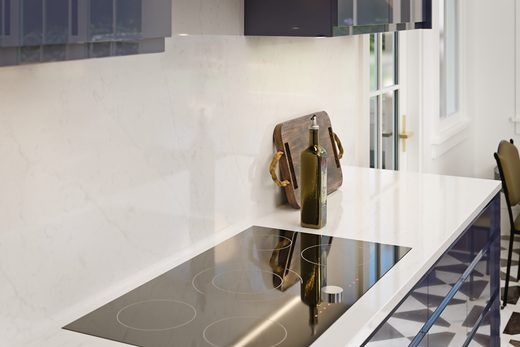
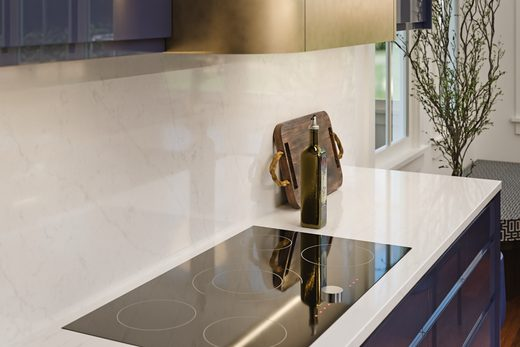
Add files via upload

diff --git a/tour.js b/tour.js
@@ -1,1 +1,1 @@
-window.TOUR = {"project": "629 Burdette St \u00b7 Kitchen", "default_node": "kitchen", "default_floor": "c_cobble", "default_doors": "closed", "floors": {"a_anabelle": "A - Anabelle St Laurent", "b_boldara": "B - Boldara Nero/Oro Checker", "c_cobble": "C - Cobble Brown"}, "doors": {"closed": "All closed", "all_open": "All appliances open"}, "client": {"name": "Maureen Stevens Design", "url": "https://www.maureenstevens.com/"}, "times": ["day", "night"], "nodes": [{"id": "kitchen", "label": "Kitchen", "view": {"yaw": 55, "pitch": -8, "hfov": 105}, "links": [{"to": "island", "label": "Island", "yaw": 179.94, "pitch": -33.99}, {"to": "breakfast", "label": "Breakfast Nook", "yaw": 84.96, "pitch": -41.27}], "appliances": [{"id": "dishwasher", "label": "Dishwasher", "action": "toggle_doors:dishwasher_open", "yaw": -57.13, "pitch": -45.95, "visible": true}, {"id": "freezer", "label": "Freezer", "action": "toggle_doors:freezer_open", "yaw": -116.23, "pitch": -5.67, "visible": true}, {"id": "fridge", "label": "Refrigerator", "action": "toggle_doors:fridge_open", "yaw": -106.64, "pitch": -6.05, "visible": true}, {"id": "wine", "label": "Wine Fridge", "action": "toggle_doors:wine_open", "yaw": 119.89, "pitch": -44.9, "visible": true}], "panos": {"floor-a_anabelle__doors-closed": {"full": "pano_kitchen_floor-a_anabelle__doors-closed.jpg", "mobile": "pano_kitchen_floor-a_anabelle__doors-closed_m.jpg", "night": {"full": "pano_kitchen_floor-a_anabelle__doors-closed_night.jpg", "mobile": "pano_kitchen_floor-a_anabelle__doors-closed_night_m.jpg"}}, "floor-a_anabelle__doors-all_open": {"full": "pano_kitchen_floor-a_anabelle__doors-all_open.jpg", "mobile": "pano_kitchen_floor-a_anabelle__doors-all_open_m.jpg", "night": {"full": "pano_kitchen_floor-a_anabelle__doors-all_open_night.jpg", "mobile": "pano_kitchen_floor-a_anabelle__doors-all_open_night_m.jpg"}}, "floor-b_boldara__doors-closed": {"full": "pano_kitchen_floor-b_boldara__doors-closed.jpg", "mobile": "pano_kitchen_floor-b_boldara__doors-closed_m.jpg", "night": {"full": "pano_kitchen_floor-b_boldara__doors-closed_night.jpg", "mobile": "pano_kitchen_floor-b_boldara__doors-closed_night_m.jpg"}}, "floor-b_boldara__doors-all_open": {"full": "pano_kitchen_floor-b_boldara__doors-all_open.jpg", "mobile": "pano_kitchen_floor-b_boldara__doors-all_open_m.jpg", "night": {"full": "pano_kitchen_floor-b_boldara__doors-all_open_night.jpg", "mobile": "pano_kitchen_floor-b_boldara__doors-all_open_night_m.jpg"}}, "floor-c_cobble__doors-closed": {"full": "pano_kitchen_floor-c_cobble__doors-closed.jpg", "mobile": "pano_kitchen_floor-c_cobble__doors-closed_m.jpg", "night": {"full": "pano_kitchen_floor-c_cobble__doors-closed_night.jpg", "mobile": "pano_kitchen_floor-c_cobble__doors-closed_night_m.jpg"}}, "floor-c_cobble__doors-all_open": {"full": "pano_kitchen_floor-c_cobble__doors-all_open.jpg", "mobile": "pano_kitchen_floor-c_cobble__doors-all_open_m.jpg", "night": {"full": "pano_kitchen_floor-c_cobble__doors-all_open_night.jpg", "mobile": "pano_kitchen_floor-c_cobble__doors-all_open_night_m.jpg"}}}, "photos": [{"still": "Still_01_Hero", "label": "Island & range - hero", "yaw": 179.86, "pitch": -30.34}, {"still": "Still_02_Range", "label": "Sink-to-range run", "yaw": 0.0, "pitch": -34.97}, {"still": "Still_03_Sink_Window", "label": "Faucet & window", "yaw": -57.64, "pitch": -11.66}, {"still": "Still_05_Hood_Detail", "label": "Brass hood & cooktop", "yaw": 0.0, "pitch": 39.81}, {"still": "Still_09_Tall_Wall", "label": "Fridge & Gaggenau oven wall", "yaw": -106.57, "pitch": -5.03}, {"still": "Still_10_Nook_to_Kitchen", "label": "From the nook - whole kitchen", "yaw": 138.64, "pitch": -23.72}, {"still": "Still_15_Wardrobe", "label": "Wardrobe - full elevation", "yaw": -165.66, "pitch": 0.0}]}, {"id": "island", "label": "Island", "view": {"yaw": 0, "pitch": -6, "hfov": 100}, "links": [{"to": "kitchen", "label": "Kitchen", "yaw": -0.06, "pitch": -33.99}, {"to": "breakfast", "label": "Breakfast Nook", "yaw": 35.59, "pitch": -27.18}], "appliances": [{"id": "freezer", "label": "Freezer", "action": "toggle_doors:freezer_open", "yaw": -71.83, "pitch": -6.0, "visible": true}, {"id": "fridge", "label": "Refrigerator", "action": "toggle_doors:fridge_open", "yaw": -62.45, "pitch": -5.6, "visible": true}], "panos": {"floor-a_anabelle__doors-closed": {"full": "pano_island_floor-a_anabelle__doors-closed.jpg", "mobile": "pano_island_floor-a_anabelle__doors-closed_m.jpg", "night": {"full": "pano_island_floor-a_anabelle__doors-closed_night.jpg", "mobile": "pano_island_floor-a_anabelle__doors-closed_night_m.jpg"}}, "floor-a_anabelle__doors-all_open": {"full": "pano_island_floor-a_anabelle__doors-all_open.jpg", "mobile": "pano_island_floor-a_anabelle__doors-all_open_m.jpg", "night": {"full": "pano_island_floor-a_anabelle__doors-all_open_night.jpg", "mobile": "pano_island_floor-a_anabelle__doors-all_open_night_m.jpg"}}, "floor-b_boldara__doors-closed": {"full": "pano_island_floor-b_boldara__doors-closed.jpg", "mobile": "pano_island_floor-b_boldara__doors-closed_m.jpg", "night": {"full": "pano_island_floor-b_boldara__doors-closed_night.jpg", "mobile": "pano_island_floor-b_boldara__doors-closed_night_m.jpg"}}, "floor-b_boldara__doors-all_open": {"full": "pano_island_floor-b_boldara__doors-all_open.jpg", "mobile": "pano_island_floor-b_boldara__doors-all_open_m.jpg", "night": {"full": "pano_island_floor-b_boldara__doors-all_open_night.jpg", "mobile": "pano_island_floor-b_boldara__doors-all_open_night_m.jpg"}}, "floor-c_cobble__doors-closed": {"full": "pano_island_floor-c_cobble__doors-closed.jpg", "mobile": "pano_island_floor-c_cobble__doors-closed_m.jpg", "night": {"full": "pano_island_floor-c_cobble__doors-closed_night.jpg", "mobile": "pano_island_floor-c_cobble__doors-closed_night_m.jpg"}}, "floor-c_cobble__doors-all_open": {"full": "pano_island_floor-c_cobble__doors-all_open.jpg", "mobile": "pano_island_floor-c_cobble__doors-all_open_m.jpg", "night": {"full": "pano_island_floor-c_cobble__doors-all_open_night.jpg", "mobile": "pano_island_floor-c_cobble__doors-all_open_night_m.jpg"}}}, "photos": [{"still": "Still_03_Sink_Window", "label": "Faucet & window", "yaw": -25.68, "pitch": -6.03}, {"still": "Still_05_Hood_Detail", "label": "Brass hood & cooktop", "yaw": -0.05, "pitch": 10.04}, {"still": "Still_09_Tall_Wall", "label": "Fridge & Gaggenau oven wall", "yaw": -62.56, "pitch": -4.65}, {"still": "Still_10_Nook_to_Kitchen", "label": "From the nook - whole kitchen", "yaw": 36.87, "pitch": -21.8}, {"still": "Still_15_Wardrobe", "label": "Wardrobe - full elevation", "yaw": -133.03, "pitch": 0.0}]}, {"id": "breakfast", "label": "Breakfast Nook", "view": {"yaw": 119, "pitch": -8, "hfov": 100}, "links": [{"to": "kitchen", "label": "Kitchen", "yaw": -95.04, "pitch": -41.27}, {"to": "island", "label": "Island", "yaw": -144.41, "pitch": -27.18}], "appliances": [{"id": "dishwasher", "label": "Dishwasher", "action": "toggle_doors:dishwasher_open", "yaw": -81.52, "pitch": -21.47, "visible": true}, {"id": "freezer", "label": "Freezer", "action": "toggle_doors:freezer_open", "yaw": -108.6, "pitch": -3.69, "visible": true}, {"id": "fridge", "label": "Refrigerator", "action": "toggle_doors:fridge_open", "yaw": -102.27, "pitch": -3.8, "visible": true}, {"id": "wine", "label": "Wine Fridge", "action": "toggle_doors:wine_open", "yaw": -127.98, "pitch": -43.43, "visible": true}], "panos": {"floor-a_anabelle__doors-closed": {"full": "pano_breakfast_floor-a_anabelle__doors-closed.jpg", "mobile": "pano_breakfast_floor-a_anabelle__doors-closed_m.jpg", "night": {"full": "pano_breakfast_floor-a_anabelle__doors-closed_night.jpg", "mobile": "pano_breakfast_floor-a_anabelle__doors-closed_night_m.jpg"}}, "floor-a_anabelle__doors-all_open": {"full": "pano_breakfast_floor-a_anabelle__doors-all_open.jpg", "mobile": "pano_breakfast_floor-a_anabelle__doors-all_open_m.jpg", "night": {"full": "pano_breakfast_floor-a_anabelle__doors-all_open_night.jpg", "mobile": "pano_breakfast_floor-a_anabelle__doors-all_open_night_m.jpg"}}, "floor-b_boldara__doors-closed": {"full": "pano_breakfast_floor-b_boldara__doors-closed.jpg", "mobile": "pano_breakfast_floor-b_boldara__doors-closed_m.jpg", "night": {"full": "pano_breakfast_floor-b_boldara__doors-closed_night.jpg", "mobile": "pano_breakfast_floor-b_boldara__doors-closed_night_m.jpg"}}, "floor-b_boldara__doors-all_open": {"full": "pano_breakfast_floor-b_boldara__doors-all_open.jpg", "mobile": "pano_breakfast_floor-b_boldara__doors-all_open_m.jpg", "night": {"full": "pano_breakfast_floor-b_boldara__doors-all_open_night.jpg", "mobile": "pano_breakfast_floor-b_boldara__doors-all_open_night_m.jpg"}}, "floor-c_cobble__doors-closed": {"full": "pano_breakfast_floor-c_cobble__doors-closed.jpg", "mobile": "pano_breakfast_floor-c_cobble__doors-closed_m.jpg", "night": {"full": "pano_breakfast_floor-c_cobble__doors-closed_night.jpg", "mobile": "pano_breakfast_floor-c_cobble__doors-closed_night_m.jpg"}}, "floor-c_cobble__doors-all_open": {"full": "pano_breakfast_floor-c_cobble__doors-all_open.jpg", "mobile": "pano_breakfast_floor-c_cobble__doors-all_open_m.jpg", "night": {"full": "pano_breakfast_floor-c_cobble__doors-all_open_night.jpg", "mobile": "pano_breakfast_floor-c_cobble__doors-all_open_night_m.jpg"}}}, "photos": [{"still": "Still_01_Hero", "label": "Island & range - hero", "yaw": -124.65, "pitch": -16.19}, {"still": "Still_02_Range", "label": "Sink-to-range run", "yaw": -67.94, "pitch": -17.73}, {"still": "Still_03_Sink_Window", "label": "Faucet & window", "yaw": -75.75, "pitch": -6.41}, {"still": "Still_04_Breakfast", "label": "Breakfast nook", "yaw": 118.61, "pitch": -25.59}, {"still": "Still_05_Hood_Detail", "label": "Brass hood & cooktop", "yaw": -75.19, "pitch": 15.85}, {"still": "Still_09_Tall_Wall", "label": "Fridge & Gaggenau oven wall", "yaw": -102.24, "pitch": -3.16}, {"still": "Still_10_Nook_to_Kitchen", "label": "From the nook - whole kitchen", "yaw": -145.75, "pitch": -22.88}, {"still": "Still_15_Wardrobe", "label": "Wardrobe - full elevation", "yaw": -141.45, "pitch": 0.0}]}], "stills": [{"id": "Still_01_Hero", "caption": "The Kitchen", "src": "still_Still_01_Hero.jpg", "thumb": "thumb_Still_01_Hero.jpg", "w": 2400, "h": 1600}, {"id": "Still_02_Range", "caption": "Sink to Range", "src": "still_Still_02_Range.jpg", "thumb": "thumb_Still_02_Range.jpg", "w": 2400, "h": 1600}, {"id": "Still_03_Sink_Window", "caption": "Workstation Sink", "src": "still_Still_03_Sink_Window.jpg", "thumb": "thumb_Still_03_Sink_Window.jpg", "w": 1920, "h": 2400}, {"id": "Still_04_Breakfast", "caption": "Breakfast Nook", "src": "still_Still_04_Breakfast.jpg", "thumb": "thumb_Still_04_Breakfast.jpg", "w": 1600, "h": 2400}, {"id": "Still_05_Hood_Detail", "caption": "Brass Hood", "src": "still_Still_05_Hood_Detail.jpg", "thumb": "thumb_Still_05_Hood_Detail.jpg", "w": 1920, "h": 2400}, {"id": "Still_06_Stools_Detail", "caption": "Bar Stools", "src": "still_Still_06_Stools_Detail.jpg", "thumb": "thumb_Still_06_Stools_Detail.jpg", "w": 1600, "h": 2400}, {"id": "Still_07_Aerial", "caption": "Overview", "src": "still_Still_07_Aerial.jpg", "thumb": "thumb_Still_07_Aerial.jpg", "w": 2400, "h": 1600}, {"id": "Still_08_Plan", "caption": "Plan View", "src": "still_Still_08_Plan.jpg", "thumb": "thumb_Still_08_Plan.jpg", "w": 2400, "h": 1600}, {"id": "Still_09_Tall_Wall", "caption": "Refrigerator & Ovens", "src": "still_Still_09_Tall_Wall.jpg", "thumb": "thumb_Still_09_Tall_Wall.jpg", "w": 1600, "h": 2400}, {"id": "Still_10_Nook_to_Kitchen", "caption": "From the Nook", "src": "still_Still_10_Nook_to_Kitchen.jpg", "thumb": "thumb_Still_10_Nook_to_Kitchen.jpg", "w": 2400, "h": 1600}, {"id": "Still_11_Fridge_Freezer_Open", "caption": "Refrigerator & Freezer", "src": "still_Still_11_Fridge_Freezer_Open.jpg", "thumb": "thumb_Still_11_Fridge_Freezer_Open.jpg", "w": 2400, "h": 1600}, {"id": "Still_12_Wine_Open", "caption": "Wine Fridge", "src": "still_Still_12_Wine_Open.jpg", "thumb": "thumb_Still_12_Wine_Open.jpg", "w": 1600, "h": 2400}, {"id": "Still_13_Dishwasher_Open", "caption": "Dishwasher", "src": "still_Still_13_Dishwasher_Open.jpg", "thumb": "thumb_Still_13_Dishwasher_Open.jpg", "w": 1600, "h": 2400}, {"id": "Still_14_Aerial_All_Open", "caption": "Overview - Appliances Open", "src": "still_Still_14_Aerial_All_Open.jpg", "thumb": "thumb_Still_14_Aerial_All_Open.jpg", "w": 2400, "h": 1600}, {"id": "Still_15_Wardrobe", "caption": "Wardrobe", "src": "still_Still_15_Wardrobe.jpg", "thumb": "thumb_Still_15_Wardrobe.jpg", "w": 1920, "h": 2400}]};
+window.TOUR = {"project": "629 Burdette St \u00b7 Kitchen", "default_node": "kitchen", "default_floor": "opt1", "default_doors": "closed", "floors": {"opt1": "Nook Option 1", "opt2": "Nook Option 2"}, "doors": {"closed": "All closed", "all_open": "All appliances open"}, "client": {"name": "Maureen Stevens Design", "url": "https://www.maureenstevens.com/"}, "times": ["day", "night"], "nodes": [{"id": "kitchen", "label": "Kitchen", "view": {"yaw": 55, "pitch": -8, "hfov": 105}, "links": [{"to": "island", "label": "Island", "yaw": 179.94, "pitch": -33.99}, {"to": "breakfast", "label": "Breakfast Nook", "yaw": 84.96, "pitch": -22.5}], "appliances": [{"id": "dishwasher", "label": "Dishwasher", "action": "toggle_doors:dishwasher_open", "yaw": -57.13, "pitch": -45.95, "visible": true}, {"id": "freezer", "label": "Freezer", "action": "toggle_doors:freezer_open", "yaw": -116.23, "pitch": -5.67, "visible": true}, {"id": "fridge", "label": "Refrigerator", "action": "toggle_doors:fridge_open", "yaw": -106.64, "pitch": -6.05, "visible": true}, {"id": "wine", "label": "Wine Fridge", "action": "toggle_doors:wine_open", "yaw": 114.53, "pitch": -39.71, "visible": true}], "panos": {"floor-opt1__doors-closed": {"full": "pano_kitchen_floor-walnut__doors-closed.jpg", "mobile": "pano_kitchen_floor-walnut__doors-closed_m.jpg", "night": {"full": "pano_kitchen_floor-walnut__doors-closed_night.jpg", "mobile": "pano_kitchen_floor-walnut__doors-closed_night_m.jpg"}}, "floor-opt2__doors-closed": {"full": "pano_kitchen_floor-walnut__doors-closed_opt2.jpg", "mobile": "pano_kitchen_floor-walnut__doors-closed_opt2_m.jpg", "night": {"full": "pano_kitchen_floor-walnut__doors-closed_opt2_night.jpg", "mobile": "pano_kitchen_floor-walnut__doors-closed_opt2_night_m.jpg"}}, "floor-opt1__doors-all_open": {"full": "pano_kitchen_floor-walnut__doors-all_open.jpg", "mobile": "pano_kitchen_floor-walnut__doors-all_open_m.jpg", "night": {"full": "pano_kitchen_floor-walnut__doors-all_open_night.jpg", "mobile": "pano_kitchen_floor-walnut__doors-all_open_night_m.jpg"}}, "floor-opt2__doors-all_open": {"full": "pano_kitchen_floor-walnut__doors-all_open_opt2.jpg", "mobile": "pano_kitchen_floor-walnut__doors-all_open_opt2_m.jpg", "night": {"full": "pano_kitchen_floor-walnut__doors-all_open_opt2_night.jpg", "mobile": "pano_kitchen_floor-walnut__doors-all_open_opt2_night_m.jpg"}}}, "photos": [{"still": "Still_01_Hero", "label": "Island & range - hero", "yaw": 179.86, "pitch": -30.34}, {"still": "Still_02_Range", "label": "Sink-to-range run", "yaw": 0.0, "pitch": -34.97}, {"still": "Still_03_Sink_Window", "label": "Faucet & window", "yaw": -57.64, "pitch": -11.66}, {"still": "Still_05_Hood_Detail", "label": "Brass hood & cooktop", "yaw": 0.0, "pitch": 39.81}, {"still": "Still_09_Tall_Wall", "label": "Fridge & Gaggenau oven wall", "yaw": -106.57, "pitch": -5.03}, {"still": "Still_10_Nook_to_Kitchen", "label": "From the nook - whole kitchen", "yaw": 138.64, "pitch": -23.72}, {"still": "Still_15_Wardrobe", "label": "Wardrobe - full elevation", "yaw": -165.66, "pitch": 0.0}]}, {"id": "island", "label": "Island", "view": {"yaw": 0, "pitch": -6, "hfov": 100}, "links": [{"to": "kitchen", "label": "Kitchen", "yaw": -0.06, "pitch": -33.99}, {"to": "breakfast", "label": "Breakfast Nook", "yaw": 35.59, "pitch": -13.62}], "appliances": [{"id": "freezer", "label": "Freezer", "action": "toggle_doors:freezer_open", "yaw": -71.83, "pitch": -6.0, "visible": true}, {"id": "fridge", "label": "Refrigerator", "action": "toggle_doors:fridge_open", "yaw": -62.45, "pitch": -5.6, "visible": true}], "panos": {"floor-opt1__doors-closed": {"full": "pano_island_floor-walnut__doors-closed.jpg", "mobile": "pano_island_floor-walnut__doors-closed_m.jpg", "night": {"full": "pano_island_floor-walnut__doors-closed_night.jpg", "mobile": "pano_island_floor-walnut__doors-closed_night_m.jpg"}}, "floor-opt2__doors-closed": {"full": "pano_island_floor-walnut__doors-closed_opt2.jpg", "mobile": "pano_island_floor-walnut__doors-closed_opt2_m.jpg", "night": {"full": "pano_island_floor-walnut__doors-closed_opt2_night.jpg", "mobile": "pano_island_floor-walnut__doors-closed_opt2_night_m.jpg"}}, "floor-opt1__doors-all_open": {"full": "pano_island_floor-walnut__doors-all_open.jpg", "mobile": "pano_island_floor-walnut__doors-all_open_m.jpg", "night": {"full": "pano_island_floor-walnut__doors-all_open_night.jpg", "mobile": "pano_island_floor-walnut__doors-all_open_night_m.jpg"}}, "floor-opt2__doors-all_open": {"full": "pano_island_floor-walnut__doors-all_open_opt2.jpg", "mobile": "pano_island_floor-walnut__doors-all_open_opt2_m.jpg", "night": {"full": "pano_island_floor-walnut__doors-all_open_opt2_night.jpg", "mobile": "pano_island_floor-walnut__doors-all_open_opt2_night_m.jpg"}}}, "photos": [{"still": "Still_03_Sink_Window", "label": "Faucet & window", "yaw": -25.68, "pitch": -6.03}, {"still": "Still_05_Hood_Detail", "label": "Brass hood & cooktop", "yaw": -0.05, "pitch": 10.04}, {"still": "Still_09_Tall_Wall", "label": "Fridge & Gaggenau oven wall", "yaw": -62.56, "pitch": -4.65}, {"still": "Still_10_Nook_to_Kitchen", "label": "From the nook - whole kitchen", "yaw": 36.87, "pitch": -21.8}, {"still": "Still_15_Wardrobe", "label": "Wardrobe - full elevation", "yaw": -133.03, "pitch": 0.0}]}, {"id": "breakfast", "label": "Breakfast Nook", "view": {"yaw": 119, "pitch": -8, "hfov": 100}, "links": [{"to": "kitchen", "label": "Kitchen", "yaw": -95.04, "pitch": -41.27}, {"to": "island", "label": "Island", "yaw": -144.41, "pitch": -27.18}], "appliances": [{"id": "dishwasher", "label": "Dishwasher", "action": "toggle_doors:dishwasher_open", "yaw": -81.52, "pitch": -21.47, "visible": true}, {"id": "freezer", "label": "Freezer", "action": "toggle_doors:freezer_open", "yaw": -108.6, "pitch": -3.69, "visible": true}, {"id": "fridge", "label": "Refrigerator", "action": "toggle_doors:fridge_open", "yaw": -102.27, "pitch": -3.8, "visible": true}, {"id": "wine", "label": "Wine Fridge", "action": "toggle_doors:wine_open", "yaw": -136.96, "pitch": -48.35, "visible": true}], "panos": {"floor-opt1__doors-closed": {"full": "pano_breakfast_floor-walnut__doors-closed.jpg", "mobile": "pano_breakfast_floor-walnut__doors-closed_m.jpg", "night": {"full": "pano_breakfast_floor-walnut__doors-closed_night.jpg", "mobile": "pano_breakfast_floor-walnut__doors-closed_night_m.jpg"}}, "floor-opt2__doors-closed": {"full": "pano_breakfast_floor-walnut__doors-closed_opt2.jpg", "mobile": "pano_breakfast_floor-walnut__doors-closed_opt2_m.jpg", "night": {"full": "pano_breakfast_floor-walnut__doors-closed_opt2_night.jpg", "mobile": "pano_breakfast_floor-walnut__doors-closed_opt2_night_m.jpg"}}, "floor-opt1__doors-all_open": {"full": "pano_breakfast_floor-walnut__doors-all_open.jpg", "mobile": "pano_breakfast_floor-walnut__doors-all_open_m.jpg", "night": {"full": "pano_breakfast_floor-walnut__doors-all_open_night.jpg", "mobile": "pano_breakfast_floor-walnut__doors-all_open_night_m.jpg"}}, "floor-opt2__doors-all_open": {"full": "pano_breakfast_floor-walnut__doors-all_open_opt2.jpg", "mobile": "pano_breakfast_floor-walnut__doors-all_open_opt2_m.jpg", "night": {"full": "pano_breakfast_floor-walnut__doors-all_open_opt2_night.jpg", "mobile": "pano_breakfast_floor-walnut__doors-all_open_opt2_night_m.jpg"}}}, "photos": [{"still": "Still_01_Hero", "label": "Island & range - hero", "yaw": -124.65, "pitch": -16.19}, {"still": "Still_02_Range", "label": "Sink-to-range run", "yaw": -67.94, "pitch": -17.73}, {"still": "Still_03_Sink_Window", "label": "Faucet & window", "yaw": -75.75, "pitch": -6.41}, {"still": "Still_05_Hood_Detail", "label": "Brass hood & cooktop", "yaw": -75.19, "pitch": 15.85}, {"still": "Still_09_Tall_Wall", "label": "Fridge & Gaggenau oven wall", "yaw": -102.24, "pitch": -3.16}, {"still": "Still_10_Nook_to_Kitchen", "label": "From the nook - whole kitchen", "yaw": -145.75, "pitch": -22.88}, {"still": "Still_15_Wardrobe", "label": "Wardrobe - full elevation", "yaw": -141.45, "pitch": 0.0}]}], "stills": [{"id": "Still_01_Hero", "caption": "The Kitchen", "src": "still_Still_01_Hero.jpg", "thumb": "thumb_Still_01_Hero.jpg", "w": 2400, "h": 1600, "opt2": {"src": "still_Still_01_Hero_opt2.jpg", "thumb": "thumb_Still_01_Hero_opt2.jpg", "w": 2400, "h": 1600}}, {"id": "Still_02_Range", "caption": "Sink to Range", "src": "still_Still_02_Range.jpg", "thumb": "thumb_Still_02_Range.jpg", "w": 2400, "h": 1600}, {"id": "Still_03_Sink_Window", "caption": "Workstation Sink", "src": "still_Still_03_Sink_Window.jpg", "thumb": "thumb_Still_03_Sink_Window.jpg", "w": 1920, "h": 2400}, {"id": "Still_04_Breakfast", "caption": "Breakfast Nook", "src": "still_Still_04_Breakfast.jpg", "thumb": "thumb_Still_04_Breakfast.jpg", "w": 1600, "h": 2400, "opt2": {"src": "still_Still_04_Breakfast_opt2.jpg", "thumb": "thumb_Still_04_Breakfast_opt2.jpg", "w": 1600, "h": 2400}}, {"id": "Still_05_Hood_Detail", "caption": "Brass Hood", "src": "still_Still_05_Hood_Detail.jpg", "thumb": "thumb_Still_05_Hood_Detail.jpg", "w": 1920, "h": 2400}, {"id": "Still_06_Stools_Detail", "caption": "Bar Stools", "src": "still_Still_06_Stools_Detail.jpg", "thumb": "thumb_Still_06_Stools_Detail.jpg", "w": 1600, "h": 2400}, {"id": "Still_07_Aerial", "caption": "Overview", "src": "still_Still_07_Aerial.jpg", "thumb": "thumb_Still_07_Aerial.jpg", "w": 2400, "h": 1600, "opt2": {"src": "still_Still_07_Aerial_opt2.jpg", "thumb": "thumb_Still_07_Aerial_opt2.jpg", "w": 2400, "h": 1600}}, {"id": "Still_08_Plan", "caption": "Plan View", "src": "still_Still_08_Plan.jpg", "thumb": "thumb_Still_08_Plan.jpg", "w": 2400, "h": 1600, "opt2": {"src": "still_Still_08_Plan_opt2.jpg", "thumb": "thumb_Still_08_Plan_opt2.jpg", "w": 2400, "h": 1600}}, {"id": "Still_09_Tall_Wall", "caption": "Refrigerator & Ovens", "src": "still_Still_09_Tall_Wall.jpg", "thumb": "thumb_Still_09_Tall_Wall.jpg", "w": 1600, "h": 2400}, {"id": "Still_10_Nook_to_Kitchen", "caption": "From the Nook", "src": "still_Still_10_Nook_to_Kitchen.jpg", "thumb": "thumb_Still_10_Nook_to_Kitchen.jpg", "w": 2400, "h": 1600, "opt2": {"src": "still_Still_10_Nook_to_Kitchen_opt2.jpg", "thumb": "thumb_Still_10_Nook_to_Kitchen_opt2.jpg", "w": 2400, "h": 1600}}, {"id": "Still_11_Fridge_Freezer_Open", "caption": "Refrigerator & Freezer", "src": "still_Still_11_Fridge_Freezer_Open.jpg", "thumb": "thumb_Still_11_Fridge_Freezer_Open.jpg", "w": 2400, "h": 1600}, {"id": "Still_12_Wine_Open", "caption": "Wine Fridge", "src": "still_Still_12_Wine_Open.jpg", "thumb": "thumb_Still_12_Wine_Open.jpg", "w": 1600, "h": 2400}, {"id": "Still_13_Dishwasher_Open", "caption": "Dishwasher", "src": "still_Still_13_Dishwasher_Open.jpg", "thumb": "thumb_Still_13_Dishwasher_Open.jpg", "w": 1600, "h": 2400}, {"id": "Still_14_Aerial_All_Open", "caption": "Overview - Appliances Open", "src": "still_Still_14_Aerial_All_Open.jpg", "thumb": "thumb_Still_14_Aerial_All_Open.jpg", "w": 2400, "h": 1600, "opt2": {"src": "still_Still_14_Aerial_All_Open_opt2.jpg", "thumb": "thumb_Still_14_Aerial_All_Open_opt2.jpg", "w": 2400, "h": 1600}}, {"id": "Still_15_Wardrobe", "caption": "Wardrobe", "src": "still_Still_15_Wardrobe.jpg", "thumb": "thumb_Still_15_Wardrobe.jpg", "w": 1920, "h": 2400}], "floor_label": "Nook"};

diff --git a/index.html b/index.html
@@ -6,7 +6,7 @@
 <title>629 Burdette St · Kitchen 360°</title>
 <meta name="description" content="Interactive 360° kitchen presentation - 629 Burdette St · Maureen Stevens Design">
 <meta property="og:title" content="629 Burdette St · Kitchen 360°">
-<meta property="og:description" content="Walk through the kitchen in 360°, switch floors and open the appliances.">
+<meta property="og:description" content="Walk through the kitchen in 360°, open the appliances and switch day / night.">
 <link rel="icon" href="logo.webp">
 <link rel="preconnect" href="https://fonts.googleapis.com">
 <link rel="preconnect" href="https://fonts.gstatic.com" crossorigin>
@@ -165,7 +165,7 @@
   </div>
 </section>
 
-<div class="title ui"><h2>629 Burdette St</h2><p>Kitchen · 360° tour</p></div>
+<div class="title ui"><h2>629 Burdette St</h2><p>Kitchen · 360° tour · <a href="v1.html" style="color:inherit;text-decoration:underline;pointer-events:auto">Previous design</a></p></div>
 <div class="hint ui" id="hint">Drag to look around · circles move you · gold dots open the appliances · camera icons show photos · switch Day / Night below</div>
 <div class="loc-name" id="locname"></div>
 
@@ -178,7 +178,7 @@
 
 <nav class="panel ui" aria-label="Tour controls">
   <div class="row"><span class="lbl">Location</span><div class="seg" id="segNode"></div></div>
-  <div class="row"><span class="lbl">Floor</span><div class="seg" id="segFloor"></div></div>
+  <div class="row" id="rowFloor"><span class="lbl" id="lblFloor">Floor</span><div class="seg" id="segFloor"></div></div>
   <div class="row"><span class="lbl">Appliances</span><div class="seg" id="segDoors"></div></div>
   <div class="row" id="rowTime"><span class="lbl">Lighting</span><div class="seg" id="segTime"></div></div>
 </nav>
@@ -217,6 +217,7 @@
   const reduce = matchMedia('(prefers-reduced-motion: reduce)').matches;
 
   if (T.client && T.client.url) $('logo').href = T.client.url;
+  if (T.floor_label) $('lblFloor').textContent = T.floor_label;
 
   const S = {node:T.default_node, floor:T.default_floor, doors:T.default_doors, time:'day'};
   const TIMES = T.times || ['day'];
@@ -291,7 +292,7 @@
     const narrow = innerWidth < 700;
     const fl = Object.entries(T.floors).map(([k,l])=>[k, narrow ? l.replace(/^(\w)\s*-\s*(\w+).*/, '$1 · $2') : l]);
     seg($('segNode'), T.nodes.map(n=>[n.id,n.label]), S.node, goNode);
-    seg($('segFloor'), fl, S.floor, setFloor);
+    if (fl.length>1) seg($('segFloor'), fl, S.floor, setFloor); else $('rowFloor').style.display='none';
     seg($('segDoors'), [['closed','Closed'],['all_open','Open']], S.doors, setDoors);
     if (TIMES.length>1) seg($('segTime'), [['day','Day'],['night','Night']], S.time, setTime); else $('rowTime').style.display='none';
   }
@@ -308,21 +309,23 @@
   // ---------- gallery ----------
   let gi=0;
   const gal=$('gal'), img=$('galImg'), thumbs=$('galThumbs');
+  const cur=s=>(S.floor==='opt2' && s.opt2) ? s.opt2 : s;
   stills.forEach((s,i)=>{ const b=document.createElement('button'); b.type='button'; b.setAttribute('aria-label',s.caption);
-    b.innerHTML=`<img src="${s.thumb}" alt="" loading="lazy">`; b.onclick=()=>show(i); thumbs.appendChild(b); });
+    b.innerHTML=`<img src="${s.thumb}" alt="" loading="lazy">`; b.dataset.k=i; b.onclick=()=>show(i); thumbs.appendChild(b); });
   if(!stills.length) $('btnGallery').style.display='none';
   function show(i){
     gi=(i+stills.length)%stills.length; const s=stills[gi];
     img.classList.remove('in');
     const pre=new Image();
-    pre.onload=()=>{ img.src=s.src; img.alt=s.caption; requestAnimationFrame(()=>requestAnimationFrame(()=>img.classList.add('in'))); };
-    pre.src=s.src;
+    const cs=cur(s);
+    pre.onload=()=>{ img.src=cs.src; img.alt=s.caption; requestAnimationFrame(()=>requestAnimationFrame(()=>img.classList.add('in'))); };
+    pre.src=cs.src;
     $('galCap').innerHTML=`${s.caption}<small>${String(gi+1).padStart(2,'0')} / ${String(stills.length).padStart(2,'0')}</small>`;
     [...thumbs.children].forEach((b,k)=>b.classList.toggle('on',k===gi));
     thumbs.children[gi]?.scrollIntoView({behavior:'smooth',inline:'center',block:'nearest'});
-    const nx=new Image(); nx.src=stills[(gi+1)%stills.length].src;
+    const nx=new Image(); nx.src=cur(stills[(gi+1)%stills.length]).src;
   }
-  function openGallery(i=0){ gal.classList.add('open'); gal.setAttribute('aria-hidden','false'); $('galCount').textContent=stills.length+' images'; show(i); }
+  function openGallery(i=0){ [...thumbs.children].forEach((b,k)=>{ const im=b.querySelector('img'); if(im) im.src=cur(stills[k]).thumb; }); gal.classList.add('open'); gal.setAttribute('aria-hidden','false'); $('galCount').textContent=stills.length+' images'; show(i); }
   function closeGallery(){ gal.classList.remove('open'); gal.setAttribute('aria-hidden','true'); }
   $('btnGallery').onclick=()=>openGallery(0);
   $('galClose').onclick=closeGallery; $('galPrev').onclick=()=>show(gi-1); $('galNext').onclick=()=>show(gi+1);
